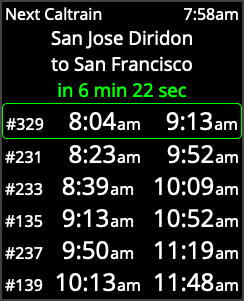
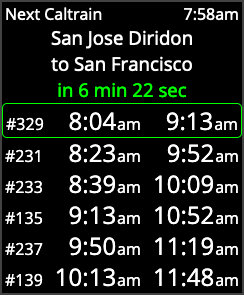
Fix column alignment.

diff --git a/webapp/style.css b/webapp/style.css
@@ -81,12 +81,16 @@ body {
 }
 
 .train-number {
+  flex: 1;
+  text-align: left;
   font-size: 12pt;
   padding-left: 3px;
   padding-right: 3px;
 }
 
 .train-time {
+  flex: 3;
+  text-align: right;
   font-size: 18pt;
   padding-right: 3px;
 }
